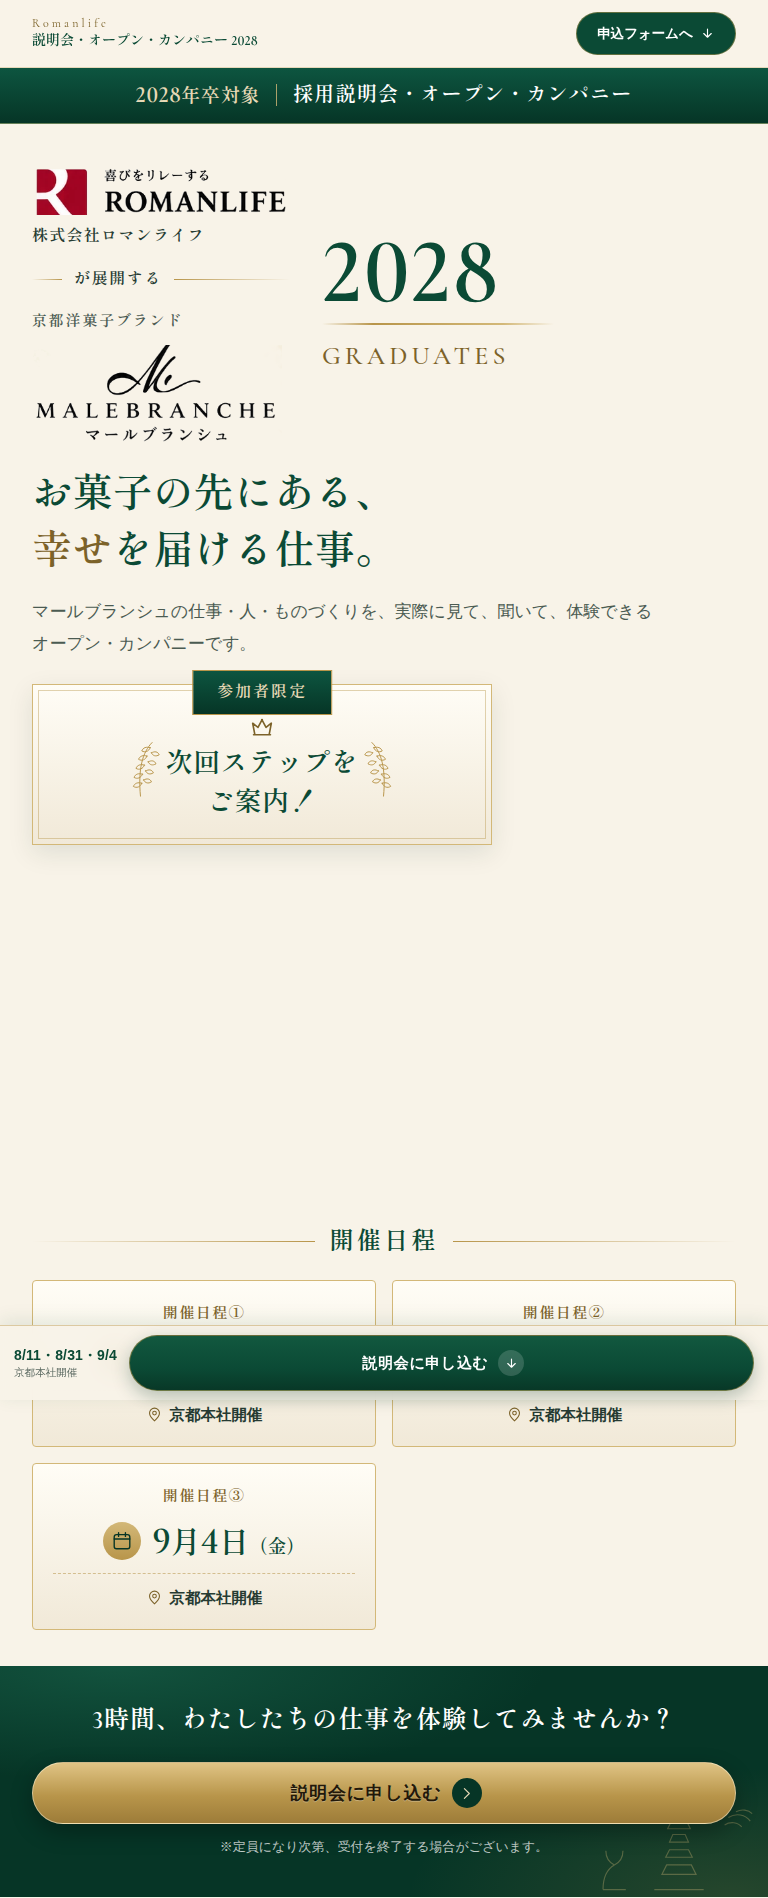
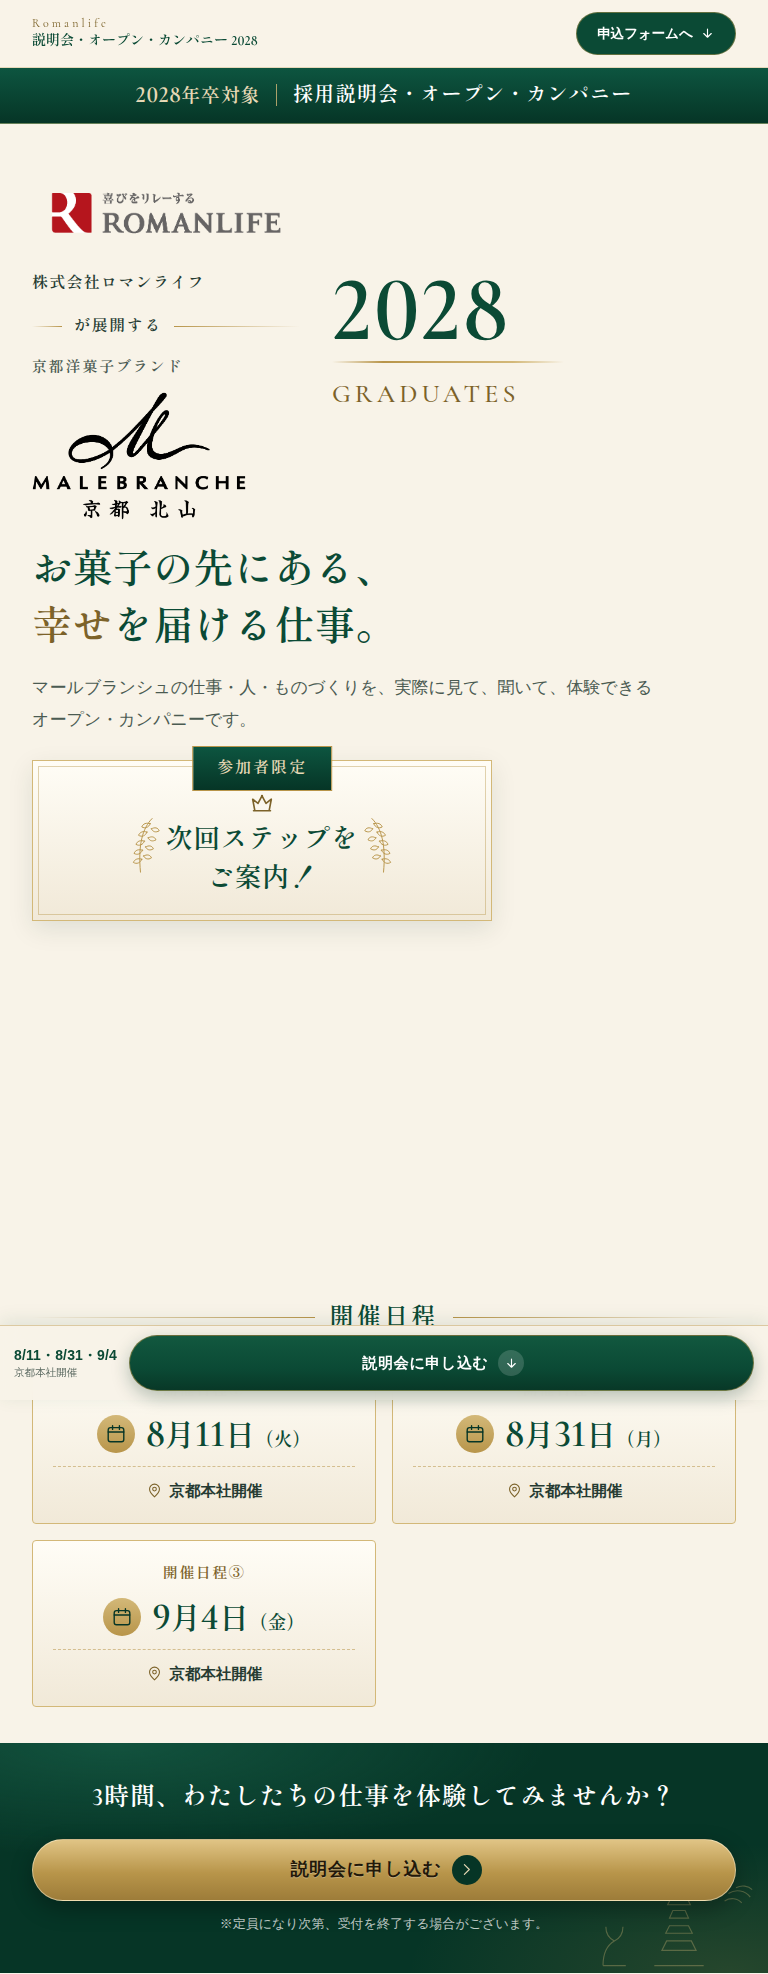
feat(static-lp): 座談会を1枚の写真へ差し替え、ロゴを公式データへ
座談会:
- 3枚のポートレートを、私服のスタッフ3名が並んだ写真1枚へ差し替え
  （【★座談会写真希望】20240110roman171.jpg）
- 使われなくなった voice-01/02/03.webp と吹き出し・3列グリッドのCSSを削除

ロゴ:
- logo-romanlife.png … ご支給の romanlife_logo_Rwhite.png を無加工でそのまま使用
- logo-malebranche.png … ご支給の マールブランシュ ロゴ.jpg（CMYK）を、
  ロゴの線・字間はそのままに、白背景のみ透明化してPNG化
- 縦横比が変わったため表示幅を調整し、alt を「MALEBRANCHE 京都 北山」へ更新

確認: 375〜1920pxで横スクロールなし／壊れ画像なし／コンソールエラーなし、
axe-core（WCAG 2.0/2.1 A・AA）違反0件

Claude-Session: https://claude.ai/code/session_015d8YPaoft4QzEwSfga62S2

diff --git a/static-lp/styles.css b/static-lp/styles.css
@@ -391,8 +391,8 @@ legend { padding: 0; }
   color: var(--ink-soft); margin-bottom: 10px;
 }
 .bb-logo { display: block; height: auto; margin-inline: auto; }
-.bb-logo-mb { width: clamp(196px, 54vw, 250px); margin-top: 2px; }
-.bb-logo-rl { width: clamp(200px, 56vw, 258px); }
+.bb-logo-mb { width: clamp(168px, 46vw, 214px); margin-top: 4px; }
+.bb-logo-rl { width: clamp(210px, 58vw, 268px); }
 .bb-conj {
   display: flex; align-items: center; gap: 12px;
   margin: 13px 0 12px;
@@ -407,7 +407,7 @@ legend { padding: 0; }
 .bb-corp {
   font-family: var(--mincho); font-weight: 600;
   font-size: clamp(14px, 3.9vw, 16px); letter-spacing: .08em;
-  color: var(--ink); margin-top: 6px;
+  color: var(--ink); margin-top: -2px;
 }
 
 /* 2028 GRADUATES */
@@ -579,10 +579,10 @@ legend { padding: 0; }
 @media (max-width: 767px) {
   .brandblock { margin-bottom: 16px; }
   .bb-label { margin-bottom: 7px; }
-  .bb-logo-mb { width: min(50vw, 186px); }
-  .bb-logo-rl { width: min(52vw, 192px); }
+  .bb-logo-mb { width: min(44vw, 176px); }
+  .bb-logo-rl { width: min(54vw, 200px); }
   .bb-conj { margin: 9px 0 8px; }
-  .bb-corp { margin-top: 4px; }
+  .bb-corp { margin-top: -2px; }
   .hero-grad .g-num { font-size: clamp(42px, 11.5vw, 58px); }
   .hero-grad .g-line { margin-block: 4px 3px; }
   .hero-grad .g-en { font-size: clamp(15px, 4.2vw, 20px); }
@@ -953,24 +953,8 @@ legend { padding: 0; }
    SECTION 07 ／ 座談会・おすすめ
    ------------------------------------------------------------------------- */
 .talk { background: linear-gradient(180deg, #f5efe2, var(--ivory)); }
-.voices { display: grid; grid-template-columns: repeat(3, 1fr); gap: 8px; margin-top: 8px; }
-.voice { position: relative; }
-.bubble {
-  position: absolute; top: 0; left: 0; right: 0;
-  background: var(--ivory-soft); border: 1px solid rgba(184,149,74,.4);
-  border-radius: 12px; padding: 8px 8px 9px;
-  font-size: 11.5px; font-weight: 700; line-height: 1.5; text-align: center; color: var(--green);
-  box-shadow: 0 2px 8px rgba(11,74,53,.07);
-  min-height: 54px; display: grid; place-items: center;
-}
-.bubble::after {
-  content: ''; position: absolute; left: 22px; bottom: -7px;
-  width: 12px; height: 12px; background: var(--ivory-soft);
-  border-right: 1px solid rgba(184,149,74,.4); border-bottom: 1px solid rgba(184,149,74,.4);
-  transform: rotate(45deg);
-}
-.voice img { width: 100%; aspect-ratio: 3 / 4; object-fit: cover; border-radius: 12px; }
-@media (min-width: 700px) { .voices { gap: 18px; } .bubble { font-size: 14px; padding: 12px; min-height: 66px; } }
+.voices-photo { margin-top: 14px; }
+.voices-photo img { width: 100%; height: auto; aspect-ratio: 3 / 2; object-fit: cover; }
 
 .q-list { margin-top: 32px; display: flex; flex-direction: column; gap: 9px; }
 .q-item {

diff --git a/static-lp/index.html b/static-lp/index.html
@@ -206,14 +206,14 @@
       <div class="hero-copy">
         <div class="brandblock">
           <img class="bb-logo bb-logo-rl" src="assets/images/logo-romanlife.png"
-               width="389" height="76" fetchpriority="high" decoding="async"
+               width="1534" height="556" fetchpriority="high" decoding="async"
                alt="喜びをリレーする ROMANLIFE">
           <p class="bb-corp">株式会社ロマンライフ</p>
           <p class="bb-conj"><span>が展開する</span></p>
           <p class="bb-label">京都洋菓子ブランド</p>
           <img class="bb-logo bb-logo-mb" src="assets/images/logo-malebranche.png"
-               width="374" height="148" decoding="async"
-               alt="MALEBRANCHE マールブランシュ">
+               width="1430" height="858" decoding="async"
+               alt="MALEBRANCHE 京都 北山">
         </div>
 
         <p class="hero-grad">
@@ -768,17 +768,9 @@
       </p>
     </div>
 
-    <ul class="voices" data-reveal>
-      <li class="voice">
-        <img src="assets/images/voice-01.webp" alt="売場に立つ社員" width="700" height="875" loading="lazy" decoding="async">
-      </li>
-      <li class="voice">
-        <img src="assets/images/voice-02.webp" alt="カフェカウンターで準備をする社員" width="700" height="875" loading="lazy" decoding="async">
-      </li>
-      <li class="voice">
-        <img src="assets/images/voice-03.webp" alt="接客ロールプレイングコンテストで笑顔を見せる社員" width="700" height="875" loading="lazy" decoding="async">
-      </li>
-    </ul>
+    <figure class="photo voices-photo" data-reveal>
+      <img src="assets/images/voices.webp" alt="テーブルを囲んで座る3人の社員" width="1400" height="933" loading="lazy" decoding="async">
+    </figure>
 
     <div data-reveal>
       <p class="sec-lead" style="margin-top:26px">当日は、採用担当者との座談会の時間があります。数年前まで販売職として勤務していた先輩に、気になることをそのまま聞ける時間です。会社説明では出てこない話ほど、これからの進路を考えるヒントになります。うまく質問をまとめられなくても大丈夫です。</p>

diff --git a/static-lp/README.md b/static-lp/README.md
@@ -229,7 +229,7 @@ source{ utm_source, utm_medium, utm_campaign, utm_content, utm_term, referrer, p
 | --- | --- |
 | 上部の帯「2028年卒対象／採用説明会・オープン・カンパニー」 | HTML＋CSS（`.hero-ribbon`） |
 | 「株式会社ロマンライフ」「が展開する」「京都洋菓子ブランド」 | HTMLテキスト |
-| MALEBRANCHE ／ ROMANLIFE のロゴ | **画像**（`assets/images/logo-*.png`） |
+| MALEBRANCHE ／ ROMANLIFE のロゴ | **画像**（ご支給の公式データ。`assets/images/logo-*.png`） |
 | 「2028 GRADUATES」 | HTMLテキスト＋CSS（`.hero-grad`） |
 | 見出し・リード文 | HTMLテキスト |
 | 「参加者限定 特別選考ルートをご案内」の枠 | HTML＋CSS＋SVG（王冠・月桂樹） |
@@ -239,11 +239,16 @@ source{ utm_source, utm_medium, utm_campaign, utm_content, utm_term, referrer, p
 
 ### ロゴの扱い
 
-`logo-malebranche.png` / `logo-romanlife.png` は、ご支給画像から該当箇所を切り出し、
-**周囲の明るい背景のみを透明化**したものです。ロゴの形・色・字間は変更していません。
+いただいた公式データをそのまま使用しています。
 
-ただし元が写真上のラスター画像のため、拡大するとエッジが甘くなります。
-**公式のロゴデータ（SVG または背景透明のPNG）をいただければ差し替えます。**
+| ファイル | 元データ | 処理 |
+| --- | --- | --- |
+| `logo-romanlife.png` | `romanlife_logo_Rwhite.png` | **無加工**（背景透過のPNGをそのままコピー） |
+| `logo-malebranche.png` | `マールブランシュ ロゴ.jpg` | CMYKのJPGのため、**白背景のみを透明化**してPNG化。ロゴの線・字間は変更していません |
+
+`マールブランシュ ロゴ.jpg` は背景が白のJPGです。ページの背景はアイボリー（`#F8F3E8`）のため、
+そのまま置くと白い四角が浮いて見えます。**ロゴそのものには一切手を加えず**、周囲の
+白い面だけを透明にしています。背景透過のPNGまたはSVGをいただければ、そちらへ差し替えます。
 
 ### FV写真の切り出し範囲
 
@@ -324,7 +329,7 @@ source{ utm_source, utm_medium, utm_campaign, utm_content, utm_term, referrer, p
 | `company-case.webp` | SECTION 05 小さい写真 | `ロマンの森_内観_ショーケース2.jpg` |
 | `career-staff.webp` | SECTION 06 キャリア | `M_2024_kamikatsura_57_s.jpg` |
 | `career-handover.webp` | SECTION 07 ひとつのお菓子を届けるまで | `M_2024_kamikatsura_73_s.jpg` |
-| `voice-01/02/03.webp` | SECTION 08 従業員インタビュー | `HP船木さん2.jpg`／`240208romanlife169.jpg`／`大塚さん.JPG` |
+| `voices.webp` | SECTION 08 座談会 | `【★座談会写真希望】20240110roman171.jpg` |
 | `access-store.webp` | 会場アクセス | `ロマンの森_外観.jpg` |
 
 **AI生成画像は残っていません。** `alt` もすべて実際の写真の内容へ書き換えています。
@@ -334,8 +339,8 @@ source{ utm_source, utm_medium, utm_campaign, utm_content, utm_term, referrer, p
 `HP船木さん＆西川さん2.jpg`／`HP船木さん(喫茶).jpg`／`M_2021_JRrm_086_s.jpg`／
 `ロマンの森スタッフ_1.jpg`。差し替えのご希望があればお知らせください。
 
-> 座談会の3枚目は `大塚さん.JPG` を使っています（吹き出しに顔がかからないよう、
-> お客さま役が画角に入らない範囲で切り出しています）。
+> 座談会は、私服のスタッフ3名が並んだ写真1枚に差し替えました（`voices.webp`）。
+> 各写真に重ねていた吹き出しは、下の質問一覧と重複するため削除しています。
 
 ### いただけていない素材
 
